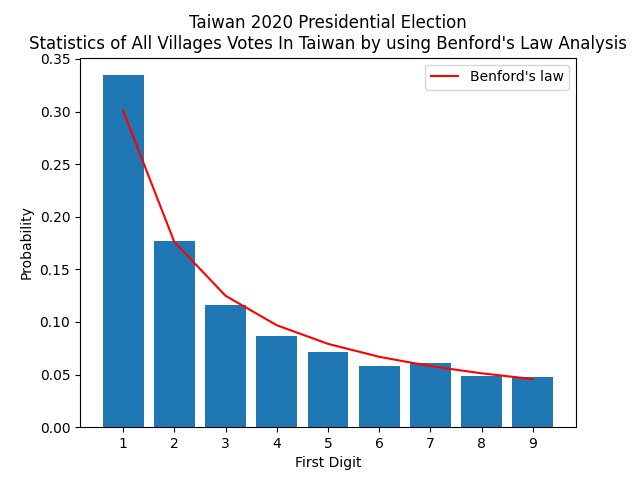
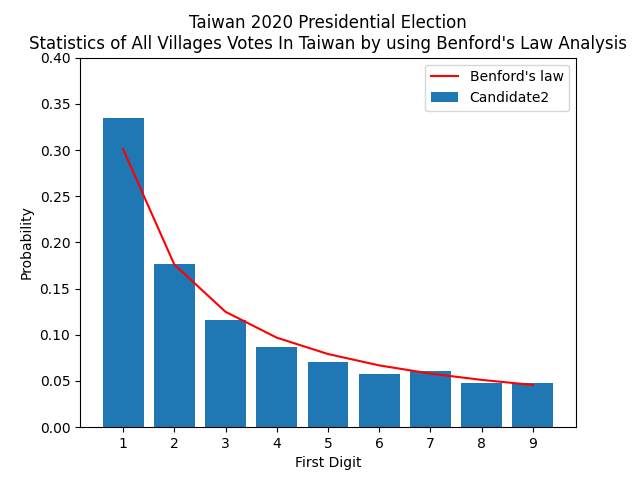
draw correct legend, set y axes range

diff --git a/benfords_law.py b/benfords_law.py
@@ -1,5 +1,6 @@
 import matplotlib.pyplot as plt
 import numpy as np
+import re
 
 
 class BenfordsLaw:
@@ -9,6 +10,8 @@ class BenfordsLaw:
         
         self.__BENFORDS_LAW_PROBABILITY = \
             [0.3010, 0.1761, 0.1249, 0.0969, 0.0792, 0.0669, 0.0580, 0.0512, 0.0457]
+        
+        self.__DIGIT_PROBABILITY_RANGE = [0, 0.4]
     
     def count_first_digit_frequency(self, multiple_num_list):
         first_digit_frequency = [0] * 9
@@ -28,7 +31,7 @@ class BenfordsLaw:
     def __get_first_digit(self, num):
         return int(str(num)[:1])
         
-    def output_data_to_graph(self, first_digit_frequency, output_path, filename, title):
+    def output_data_to_graph(self, first_digit_frequency, output_path, data_name, title):
         if (len(first_digit_frequency) != len(self.__DIGIT)):
             raise Exception("invalid first_digit_frequency")
         
@@ -46,10 +49,17 @@ class BenfordsLaw:
         
         line_benfords_law = plt.plot(
             self.__DIGIT, 
-            self.__BENFORDS_LAW_PROBABILITY, "r", 
-            label = "Benford's law"
+            self.__BENFORDS_LAW_PROBABILITY, "r"
         )
         
-        plt.legend(handles = line_benfords_law)
+        legend = ["Benford's law", self.__no_special(data_name)]
+        plt.legend(legend)
+
         plt.xticks(self.__DIGIT)
-        plt.savefig(output_path + "/" + filename + ".png")
+        current_axes = plt.gca()
+        current_axes.set_ylim(self.__DIGIT_PROBABILITY_RANGE)
+        plt.savefig(output_path + "/" + data_name + ".png")
+    
+    def __no_special(self, text):
+        text = re.sub("[^a-zA-Z0-9]+", "", text)
+        return text

diff --git a/visualize_data.py b/visualize_data.py
@@ -1,4 +1,4 @@
-# python version is 3.6
+# minumum python version is 3.6
 
 from os import listdir
 from os.path import isfile, join
@@ -65,7 +65,7 @@ def get_specific_data_from_all_files(column_name, raw_data_files):
         data_list.append(data[column_name].to_list())
     
     return data_list
-    
+
 
 raw_data_files = [f for f in listdir(RAW_DATA_FOLDER) if isfile(join(RAW_DATA_FOLDER, f))]
 print("raw_data_files:\n" + '\n'.join(raw_data_files))
